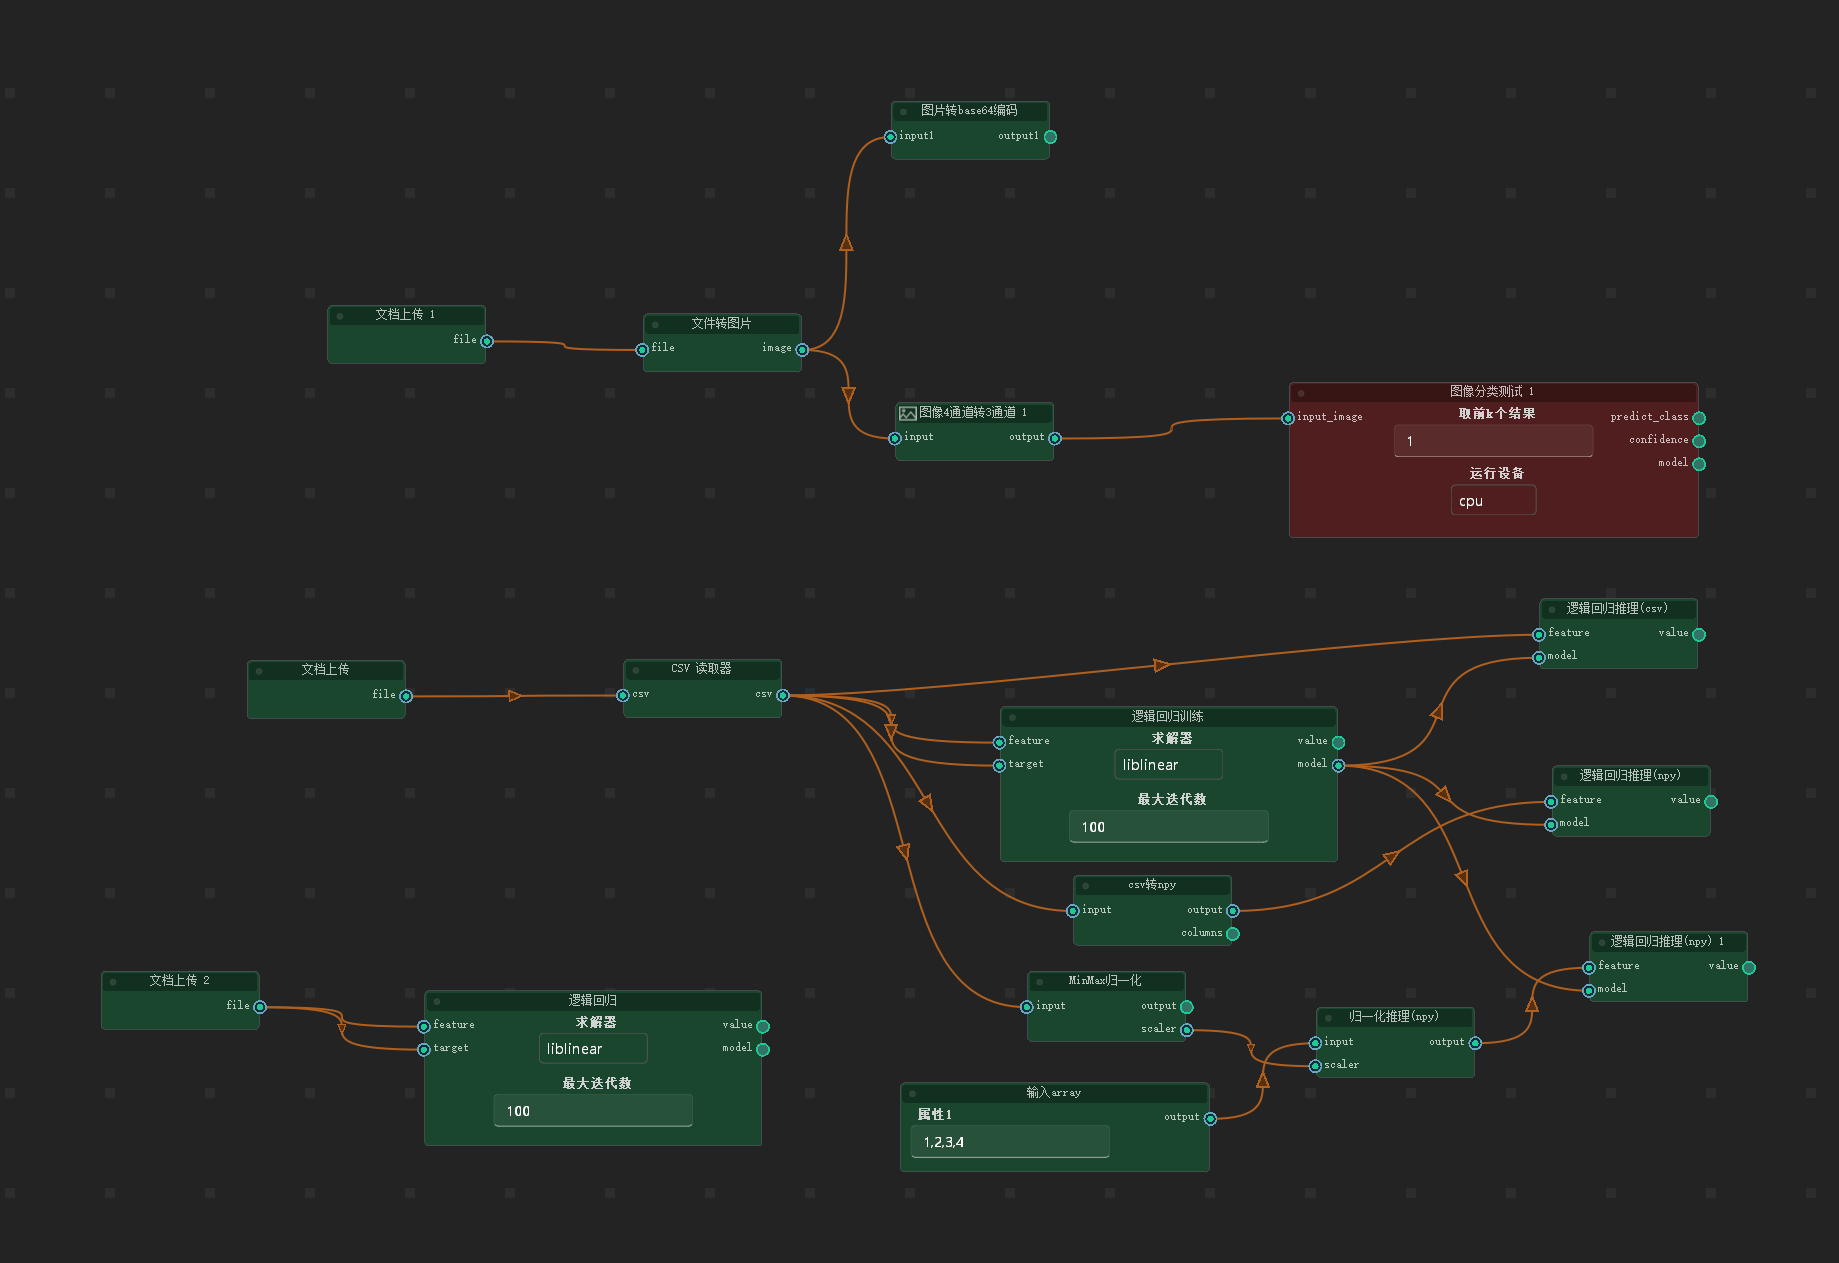
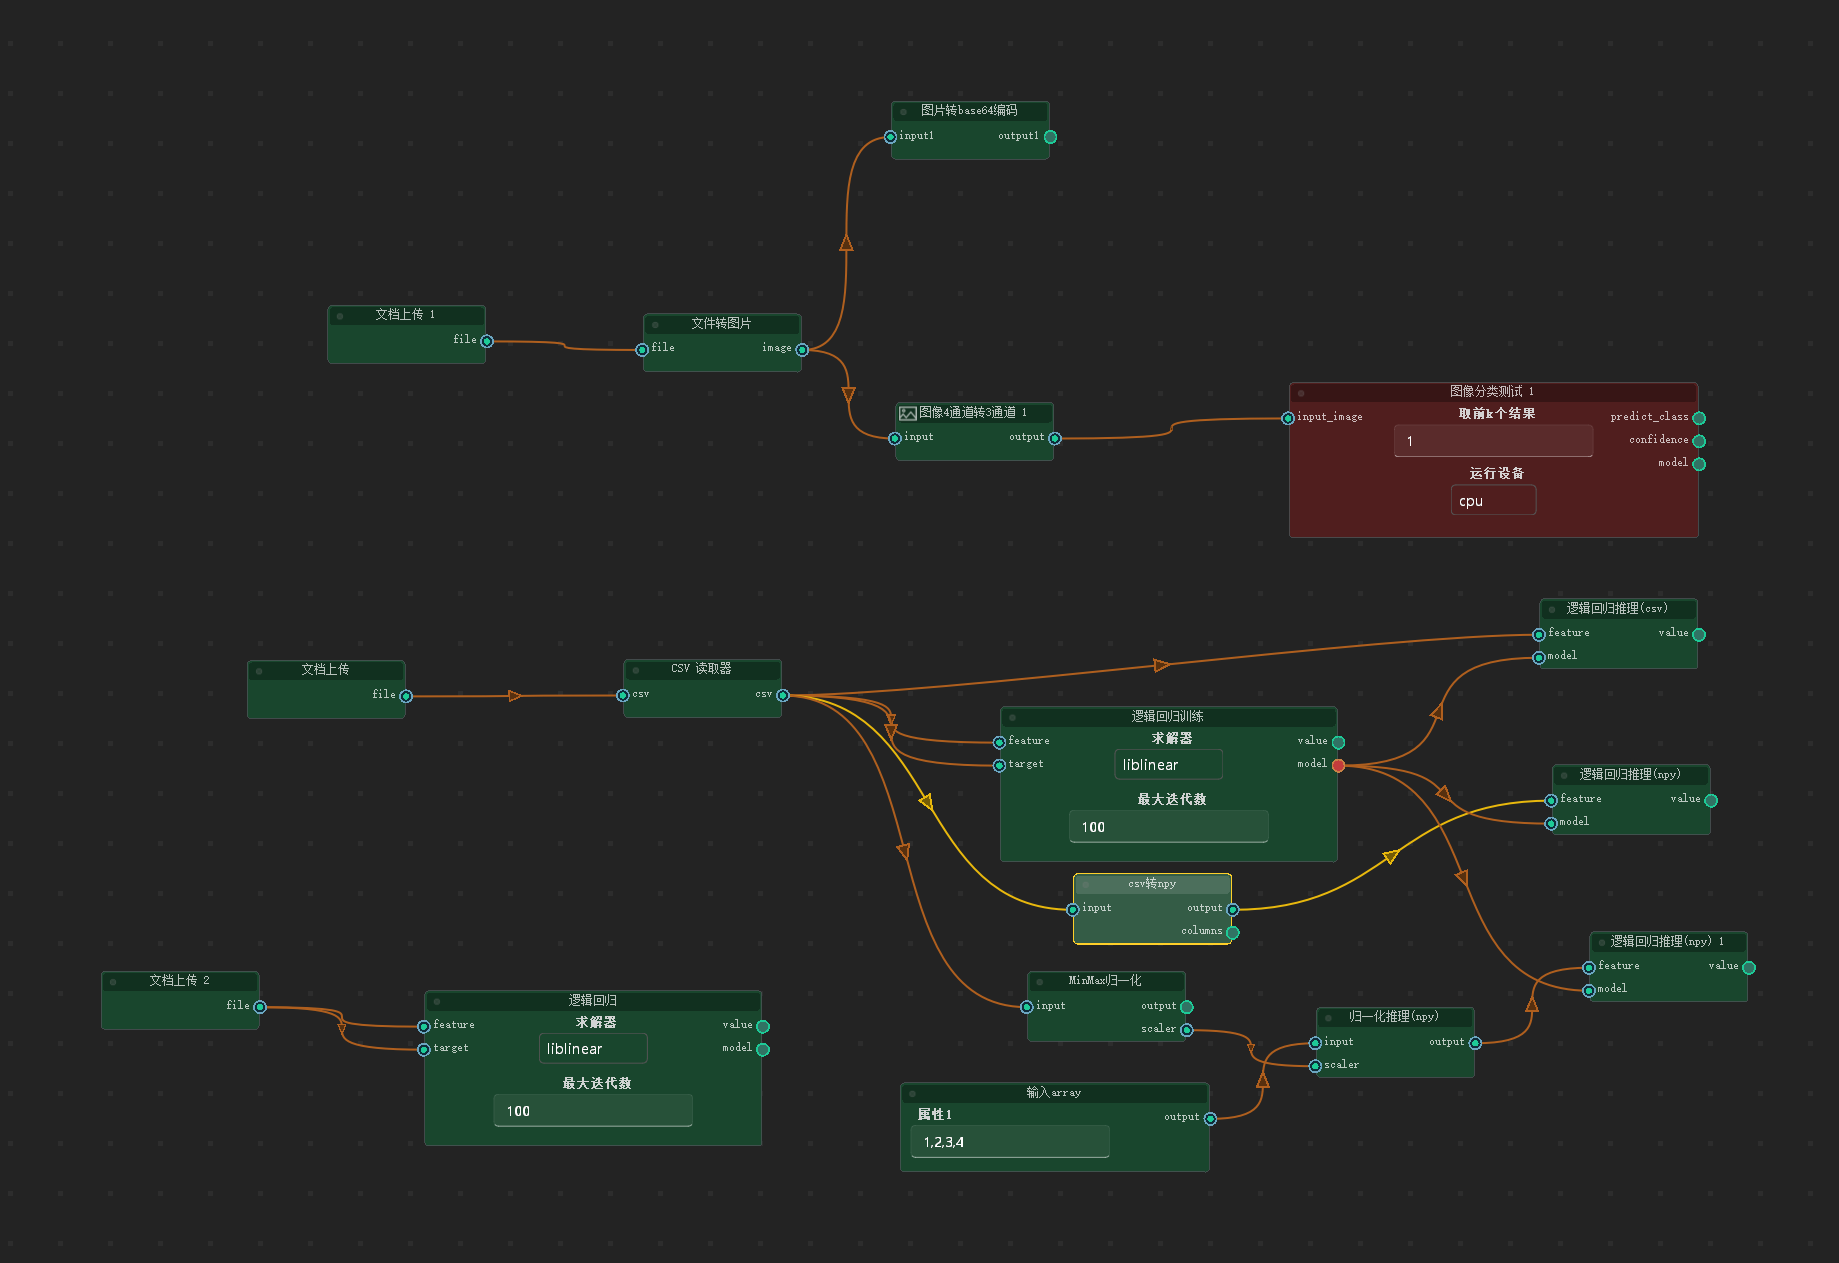
feat(node): 添加特殊输出端口绘制功能
- 在 execute_node.py 中导入 re 模块用于节点名称处理
- 根据全局变量动态决定是否使用特殊输出端口绘制函数
- 新增 draw_special_outputport 函数用于绘制紫色圆形端口
- 更新工作流文件中的节点 ID 和连接关系
- 调整部分节点坐标和选中状态
- 更新环境配置和节点稳定键映射
- 添加 csv 转 npy 列名变量到工作流数据中

diff --git a/app/nodes/execute_node.py b/app/nodes/execute_node.py
@@ -2,6 +2,7 @@
 import os
 import pickle
 import platform
+import re
 import subprocess
 import tempfile
 import time
@@ -21,7 +22,7 @@ from app.nodes.base_node import BasicNodeWithGlobalProperty
 from app.nodes.node_execute_script import _EXECUTION_SCRIPT_TEMPLATE
 from app.scheduler.expression_engine import ExpressionEngine
 from app.utils.node_logger import NodeLogHandler
-from app.utils.utils import draw_square_port, resource_path  # 假设 resource_path 也在 utils
+from app.utils.utils import draw_square_port, resource_path, draw_special_outputport  # 假设 resource_path 也在 utils
 from app.widgets.node_widget.combobox_widget import ComboBoxWidgetWrapper
 from app.widgets.node_widget.custom_node_item import CustomNodeItem
 from app.widgets.node_widget.dynamic_form_widget import DynamicFormWidgetWrapper
@@ -112,7 +113,11 @@ def create_node_class(component_class, full_path, file_path, parent_window=None)
                 else:
                     self.add_input(port_name, True, painter_func=draw_square_port)
             for port_name, label in component_class.get_outputs():
-                self.add_output(port_name)
+                name = re.sub(r'\s+', '_', self.name())
+                if f"{name}_{port_name}" in parent_window.global_variables.node_vars:
+                    self.add_output(port_name, True, painter_func=draw_special_outputport)
+                else:
+                    self.add_output(port_name)
 
         def _toggle_debug_mode(self):
             """调试模式开关回调"""

diff --git a/app/utils/utils.py b/app/utils/utils.py
@@ -397,6 +397,46 @@ def draw_square_port(painter, rect, info):
     painter.restore()
 
 
+def draw_special_outputport(painter, rect, info):
+    """
+    Custom paint function for drawing a circular (ellipse) shaped port in purple.
+
+    Args:
+        painter (QtGui.QPainter): painter object.
+        rect (QtCore.QRectF): port rect used to describe parameters needed to draw.
+        info (dict): information describing the ports current state.
+            {
+                'port_type': 'in',
+                'color': (0, 0, 0),
+                'border_color': (255, 255, 255),
+                'multi_connection': False,
+                'connected': False,
+                'hovered': False,
+            }
+    """
+    painter.save()
+
+    # Define a base purple color (you can adjust as needed)
+    DEFAULT_PURPLE = (128, 0, 128)  # RGB for purple
+
+    # mouse over port color.
+    if info['hovered']:
+        color = QtGui.QColor(14, 45, 59)
+        border_color = QtGui.QColor(136, 255, 35, 255)
+    else:
+        color = QtGui.QColor(*DEFAULT_PURPLE)
+        border_color = QtGui.QColor(*info['border_color'])
+
+    pen = QtGui.QPen(border_color, 1.8)
+    pen.setJoinStyle(QtCore.Qt.MiterJoin)
+
+    painter.setPen(pen)
+    painter.setBrush(color)
+    painter.drawEllipse(rect)  # Draw circle/ellipse instead of rectangle
+
+    painter.restore()
+
+
 def _evaluate_value_recursively(value, expr_engine):
     """
     递归处理任意结构的值，对字符串执行表达式求值。

diff --git a/app/widgets/custom_nodegraph.py b/app/widgets/custom_nodegraph.py
@@ -140,7 +140,6 @@ class CustomNodeViewer(NodeViewer):
         self.COLLIDING_state = False
 
         # connection constrains.
-        # TODO: maybe this should be a reference to the graph model instead?
         self.accept_connection_types = None
         self.reject_connection_types = None
 
